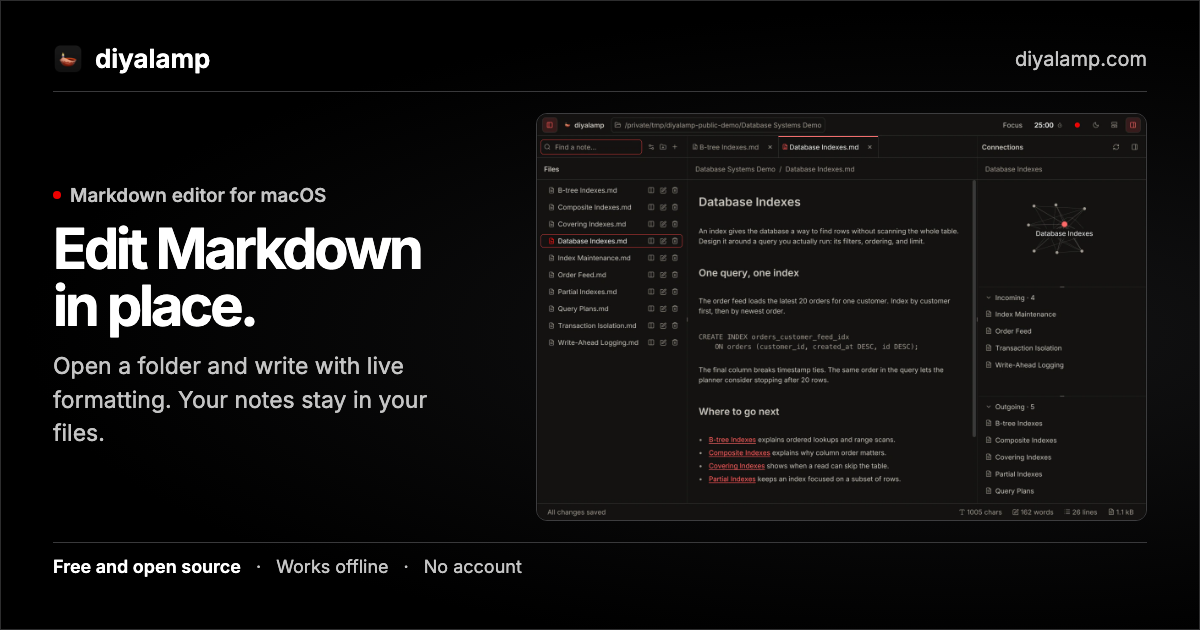
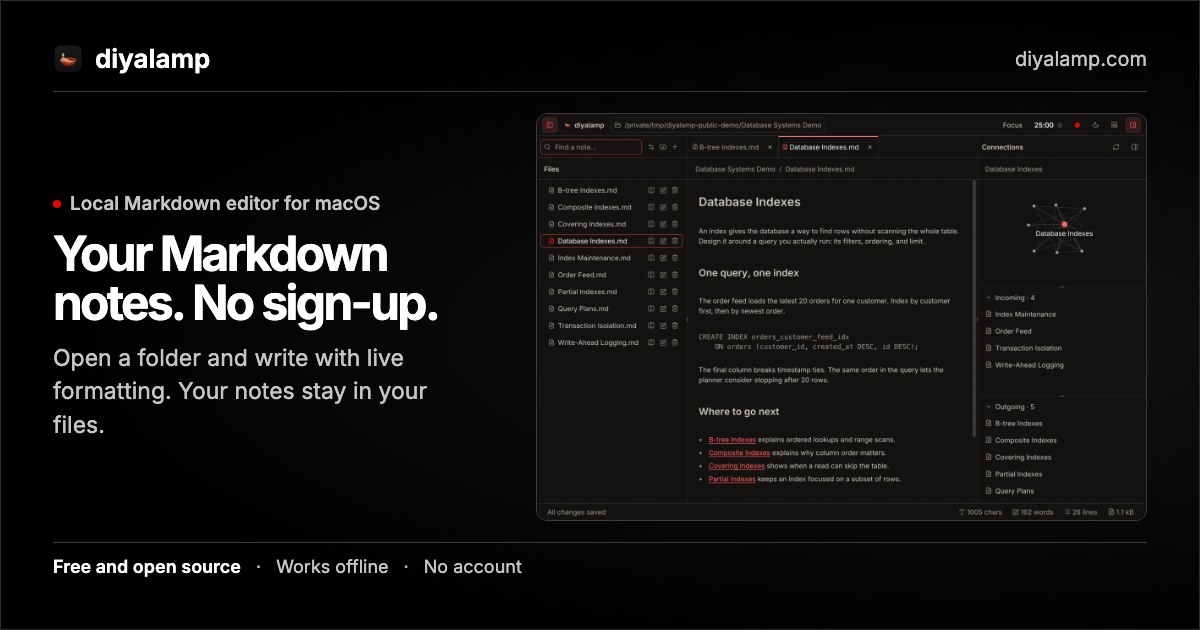
Show five macOS editor features in a responsive gallery

Changed region(s): [[0.0308, 0.3619, 0.37, 0.7238], [0.0308, 0.3016, 0.3392, 0.3317]]

diff --git a/website/src/app/page.tsx b/website/src/app/page.tsx
@@ -40,6 +40,34 @@ const workflow = [
   },
 ];
 
+const featureCaptures = [
+  {
+    name: "connections-hover", title: "Connections graph", width: 824, height: 1616, crop: true,
+    alt: "The Connections panel highlights the links and direction arrows for Composite Indexes.",
+    instruction: "Open Connections for a note. Hover over a dot to see which notes link to it and where its links lead.",
+  },
+  {
+    name: "pomodoro-controls", title: "Pomodoro timer", width: 660, height: 792,
+    alt: "A running 25-minute focus timer with a five-minute break and Repeat selected.",
+    instruction: "Open the timer in the toolbar. Set the focus and break lengths, then choose One cycle or Repeat.",
+  },
+  {
+    name: "accent-palette", title: "Accent colors", width: 612, height: 372,
+    alt: "The accent menu shows red, blue, yellow, green, white, and a custom color option.",
+    instruction: "Open the color menu to pick a preset or set a custom accent for the dark workspace.",
+  },
+  {
+    name: "workspace-search", title: "Advanced search", width: 832, height: 876, crop: true,
+    alt: "Workspace search shows the options for case, whole-word, regex, and path filters above highlighted matches.",
+    instruction: "Open search options to match case, whole words, or regular expressions. Use path filters to narrow the results.",
+  },
+  {
+    name: "focus-active-line", title: "Focus mode", width: 1520, height: 620, wide: true,
+    alt: "The current line remains bright while the surrounding heading and code are dimmed.",
+    instruction: "Turn on Focus in the toolbar to keep the current line bright while the rest of the note fades.",
+  },
+];
+
 const faqs = [
   {
     question: "How do I bring my notes?",
@@ -78,13 +106,13 @@ export default function Home() {
           <div className="site-frame hero-layout">
             <div className="hero-copy">
               <div>
-                <p className="simple-kicker"><span className="status-dot" aria-hidden="true" />Markdown editor for macOS</p>
-                <h1 id="hero-heading">Edit Markdown <span>in place.</span></h1>
+                <p className="simple-kicker"><span className="status-dot" aria-hidden="true" />Local Markdown editor for macOS</p>
+                <h1 id="hero-heading">Your Markdown notes. <span>No sign-up.</span></h1>
               </div>
               <div className="hero-summary">
                 <p className="simple-intro">Open a folder. Write with live formatting, search across your notes, and keep a reference beside your draft.</p>
                 <ul className="hero-promises" aria-label="Price, license, and account">
-                  <li>Free forever</li><li>Open source</li><li>No account</li>
+                  <li>Free forever</li><li>Open source</li><li>Works offline</li>
                 </ul>
                 <div className="simple-actions">
                   <a className="site-button site-button-primary" href="#download"><DownloadIcon aria-hidden="true" />Download for Mac</a>
@@ -119,6 +147,20 @@ export default function Home() {
             <div className="desktop-details">
               <article><MoonIcon aria-hidden="true" /><div><h3>Focus and Pomodoro</h3><p>Keep the active line bright and dim the workspace around it. Set a focus and break cycle or run the timer on repeat.</p></div></article>
               <article><FileCheckIcon aria-hidden="true" /><div><h3>File-safe editing</h3><p>Autosave checks for outside changes before writing. Rename notes in the sidebar and restore deleted notes from the app.</p></div></article>
+            </div>
+            <h3 className="feature-gallery-title">A closer look at the editor.</h3>
+            <div className="feature-gallery">
+              {featureCaptures.map(({ name, title, width, height, crop, wide, alt, instruction }) => {
+                const src = `/screenshots/${name}.webp`;
+                return (
+                  <figure key={name} className="feature-capture" data-wide={wide || undefined}>
+                    <a className="feature-preview" data-crop={crop || undefined} href={src} aria-label={`View full-size screenshot. ${alt}`}>
+                      <img src={src} width={width} height={height} alt={alt} loading="lazy" decoding="async" />
+                    </a>
+                    <figcaption><h4>{title}</h4><p>{instruction}</p></figcaption>
+                  </figure>
+                );
+              })}
             </div>
           </div>
         </section>

diff --git a/website/src/app/globals.css b/website/src/app/globals.css
@@ -107,7 +107,8 @@ a:focus-visible, button:focus-visible, summary:focus-visible {
 .simple-kicker { display: flex; align-items: center; gap: 8px; color: var(--site-text); font-size: .875rem; font-weight: 550; }
 .status-dot { width: 7px; height: 7px; border-radius: 50%; background: #ee0000; }
 #hero-heading, .marketing-heading { font-weight: 650; line-height: 1.06; letter-spacing: -.042em; text-wrap: balance; }
-#hero-heading { font-size: clamp(2.4rem, 4.6vw, 3.65rem); margin-block: 12px 16px; }
+#hero-heading { font-size: clamp(2.25rem, 4vw, 3.375rem); margin-block: 12px 16px; }
+#hero-heading span { white-space: nowrap; }
 .marketing-heading { font-size: clamp(2rem, 4vw, 3.2rem); margin-block: 8px 14px; }
 .simple-intro, .simple-release-card p, .support-layout p:last-child { color: var(--site-text); max-width: 55ch; }
 .simple-intro { font-size: clamp(1rem, 1.55vw, 1.125rem); }
@@ -155,6 +156,19 @@ a:focus-visible, button:focus-visible, summary:focus-visible {
 .workflow-details h3, .desktop-details h3 { margin-top: 0; }
 .desktop-details { display: grid; grid-template-columns: 1fr 1fr; gap: 18px 30px; margin-top: 26px; border-top: 1px solid var(--diya-line); }
 .desktop-details article { padding-top: 19px; }
+.feature-gallery-title { margin-block: 28px 14px; font-size: clamp(1.4rem, 2.3vw, 1.75rem); font-weight: 650; line-height: 1.2; }
+.feature-gallery { display: grid; grid-template-columns: repeat(3, minmax(0, 1fr)); gap: 14px; }
+.feature-capture { min-width: 0; border: 1px solid var(--diya-line); border-radius: var(--diya-radius); }
+.feature-capture[data-wide] { grid-column: span 2; }
+.feature-preview {
+  display: grid; place-items: center; height: clamp(240px, 26vw, 320px);
+  overflow: hidden; border-radius: calc(var(--diya-radius) - 1px) calc(var(--diya-radius) - 1px) 0 0; background: #111213;
+}
+.feature-preview img { display: block; width: 100%; height: 100%; min-height: 0; object-fit: contain; padding: 14px; }
+.feature-preview[data-crop] img { padding: 0; object-fit: cover; object-position: center top; }
+.feature-capture figcaption { padding: 14px 16px 16px; border-top: 1px solid var(--diya-line); }
+.feature-capture h4 { font-weight: 640; line-height: 1.35; }
+.feature-capture p { margin-top: 5px; color: var(--site-text); font-size: .9375rem; }
 .simple-release-card {
   display: grid; grid-template-columns: 1.15fr 1fr; gap: 32px; align-items: center;
   border: 1px solid var(--diya-line); border-radius: var(--diya-radius); background: #111213;
@@ -197,6 +211,7 @@ a:focus-visible, button:focus-visible, summary:focus-visible {
 @media (max-width: 920px) {
   .workflow-layout { grid-template-columns: 1fr; }
   .hero-copy { max-width: 620px; }
+  .feature-gallery { grid-template-columns: repeat(2, minmax(0, 1fr)); }
 }
 @media (min-width: 921px) {
   .hero-copy { display: grid; grid-template-columns: minmax(0, 1fr) minmax(0, .85fr); gap: clamp(24px, 5.1vw, 72px); }
@@ -219,6 +234,11 @@ a:focus-visible, button:focus-visible, summary:focus-visible {
   .comparison-preview article + article { border-left: 0; border-top: 1px solid var(--diya-line); }
   .desktop-details { gap: 0; }
   .section-heading, .support-layout { align-items: start; flex-direction: column; }
+}
+@media (max-width: 560px) {
+  .feature-gallery { grid-template-columns: minmax(0, 1fr); }
+  .feature-capture[data-wide] { grid-column: auto; }
+  .feature-capture[data-wide] .feature-preview { height: auto; aspect-ratio: 16 / 9; }
 }
 @media (max-width: 390px) {
   .simple-site main > .simple-hero { padding-block: 26px 30px; }

diff --git a/website/src/app/alternatives/page.tsx b/website/src/app/alternatives/page.tsx
@@ -8,7 +8,7 @@ import { comparisonDate, decimalMegabytes, macDownloads } from '@/lib/mac-downlo
 import './alternatives.css';
 
 const title = 'Obsidian, Notion, and Typora Alternatives for Mac';
-const socialCard = `/social-card.png?v=${desktopRelease.version}-dock`;
+const socialCard = `/social-card.png?v=${desktopRelease.version}-workspace`;
 const description =
   'Compare diyalamp with Obsidian, Notion, and Typora. See which editors use local Markdown, what setup they need, and how to bring your notes.';
 

diff --git a/website/src/app/layout.tsx b/website/src/app/layout.tsx
@@ -11,7 +11,7 @@ const inter = localFont({
 });
 
 const siteUrl = 'https://diyalamp.com';
-const socialCard = `/social-card.png?v=${desktopRelease.version}-dock`;
+const socialCard = `/social-card.png?v=${desktopRelease.version}-workspace`;
 const title = 'diyalamp | Free, Open-Source Markdown Editor for Mac';
 const description =
   'Write with live Markdown formatting, search your notes, and open a reference beside your draft. Free and open source for Mac, with no account required.';
